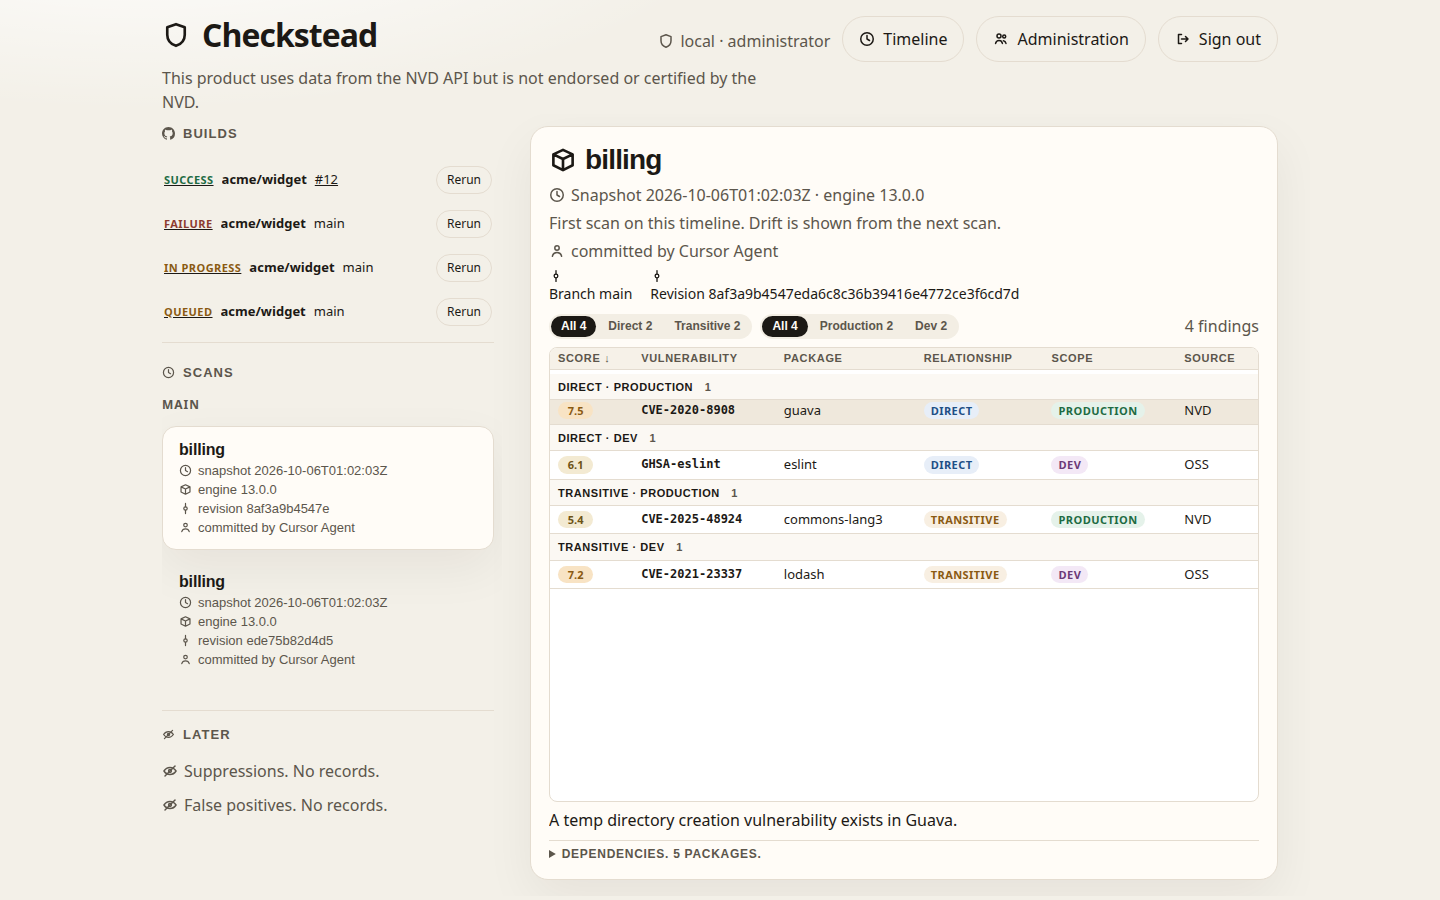
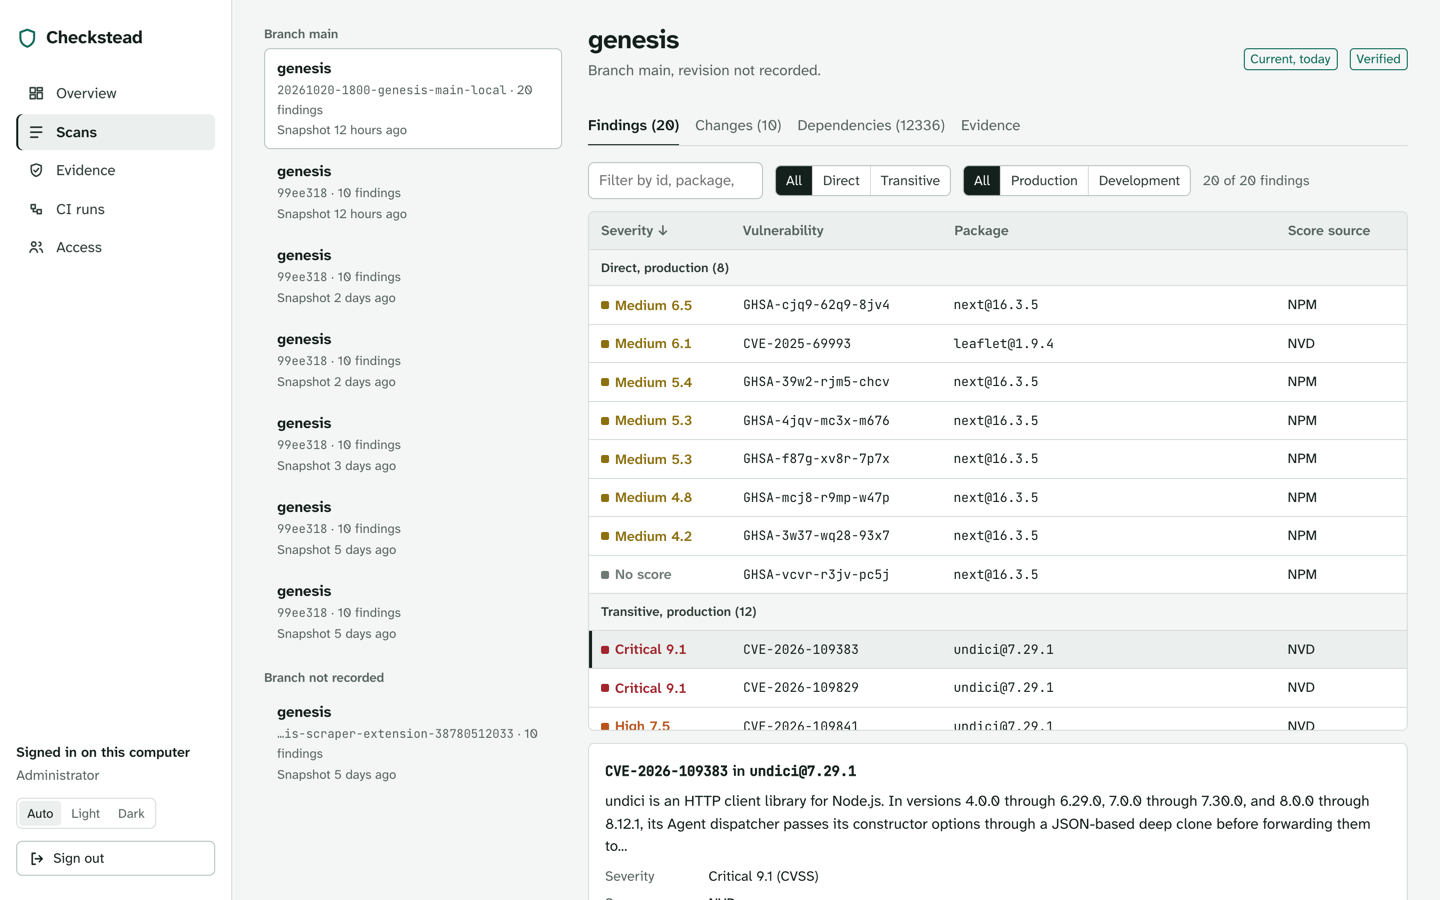
Document the UI design system, page map, and states, with new screenshots.

diff --git a/docs/ui-design.md b/docs/ui-design.md
@@ -1,0 +1,116 @@
+# Web UI design
+
+The timeline server's UI for people who decide whether a dependency change is safe to ship. They are security engineers, release owners, and the developers whose pull request a scan blocked. They need to answer three questions quickly and trust the answer:
+
+1. What needs me right now?
+2. Can I trust this scan? Was the vulnerability data current, signed, and intact?
+3. What changed, and what do I do about it?
+
+## Principles
+
+- **Evidence before verdicts.** Every claim on screen comes from a field in a report. When a report does not record something, the UI says "Not recorded". It never infers a value or treats a missing value as good.
+- **One loud element.** The evidence chain is the signature element. Everything around it stays quiet: one rule weight, one radius, no shadows, no gradients.
+- **Words carry meaning, colour reinforces it.** Severity, freshness, and signature states are always written out ("Critical 9.1", "Aging, 5 days", "Not verified"). Colour is never the only signal.
+- **Teal means verified, and nothing else.** The accent colour is reserved for verified evidence, so it never shows up as decoration.
+- **No sample data.** The app ships no fixtures. An empty server shows an empty state that says how to produce the first scan.
+
+## Design tokens
+
+All tokens are CSS custom properties in [app.css](../src/checkstead/static/app.css). The dark theme redefines the same names.
+
+| Token | Light | Dark | Use |
+| --- | --- | --- | --- |
+| `--paper` | `#f4f6f5` | `#0f1513` | Page background: cool slate-green, not cream |
+| `--surface` | `#ffffff` | `#151d1a` | Tables, panels |
+| `--ink` | `#14201b` | `#e3eae6` | Body text |
+| `--muted` | `#57645e` | `#93a29b` | Secondary text |
+| `--verified` | `#0e6b5a` | `#45b89c` | Verified evidence only |
+| `--warn` | `#8c5a0b` | `#e0a64a` | Aging data, new findings |
+| `--fail` | `#a1252c` | `#f07a7f` | Stale data, unsigned, exploited |
+| `--sev-critical` / `-high` / `-medium` / `-low` / `-none` | `#a1252c` `#a84a16` `#7d630b` `#4c6a5f` `#5d6964` | `#f07a7f` `#f0975f` `#d8b84d` `#8fb3a5` `#8a9892` | CVSS bands |
+
+Contrast was computed with the WCAG 2.x formula. Every text token is at least 4.5:1 against `--paper`, `--surface`, and `--surface-sunk` in both themes. The lowest is a severity colour on `--surface-sunk` in the light theme, at 4.93:1. axe-core's contrast rule needs layout, which jsdom lacks, so the tests turn it off and these ratios are the check.
+
+**Type.** Atkinson Hyperlegible Next for the interface: it was designed for low-vision readers and keeps 0/O and 1/l/I distinct. JetBrains Mono for identifiers only: CVE and GHSA ids, package coordinates, digests, revisions. Both are vendored as Latin `woff2` subsets under the SIL Open Font License, with SHA-256 sums in `static/fonts/SHA256SUMS`. CI fails if they differ from the pinned npm packages. The scale runs 13, 14, 15, 18, 21.6, and 26 px, and line length stays under 80 characters.
+
+**Space.** 4, 8, 12, 16, 24, 32, and 48 px. Radius is 4 or 6 px. The content column is at most 1240 px wide.
+
+**Theme.** Auto follows `prefers-color-scheme`. Light and Dark set `data-theme` on the root element, and the choice is kept in `localStorage`. If storage is blocked, the choice lasts for the page only.
+
+## Information architecture
+
+```
+Sign in (gate)                      shown until a session exists
+└─ Shell: rail navigation + main
+   ├─ Overview            #/                       evidence chain, needs attention, counts, newest scan per project
+   ├─ Scans               #/scans                  opens the newest scan
+   │  └─ Scan             #/scans/<id>[/<tab>]     findings | changes | dependencies | evidence
+   ├─ Evidence            #/evidence               the evidence chain for every newest scan
+   ├─ CI runs             #/builds                 GitHub App workflow runs, rerun
+   └─ Access              #/access                 administrators only: people and roles
+```
+
+Routes are hash routes, so every view and tab has a link that survives a reload, and the server needs no route of its own. The server-rendered GitHub App pages under `/github` are unchanged.
+
+## Journeys
+
+**A release owner checks the morning's state.** They open Overview. The evidence chain says whether the newest scan's data can be trusted. Needs attention lists exploited findings first, then critical findings, then new findings, stale data, and unsigned snapshots. Each item links to the tab that explains it.
+
+**A developer's pull request was blocked.** They follow the link to the scan and open Changes, which shows what the pull request introduced, most severe first. Selecting a finding shows its description, CVSS vectors, whether it is on the CISA KEV list, a link to the advisory, and what to do. For a transitive finding, it says to upgrade the direct dependency that brings it in.
+
+**An auditor verifies a scan.** The Evidence tab shows the snapshot time and freshness, the full zip digest, the signature key, the engine version, and the policy the scan applied. It also gives the two commands that rerun the scan client's own checks.
+
+**An administrator adds a colleague.** Access has a form with the account type, login, and role. Removing a person takes a second press. The server refuses to remove or demote the last administrator, and the UI shows that refusal.
+
+## States
+
+Every load is idle, loading, ready, or error. Views render each state explicitly.
+
+| State | What the person sees |
+| --- | --- |
+| Loading | Skeleton lines in the shape of the content |
+| Empty | What is missing and how to produce it, for example "No scans yet" with the ways scans reach the server |
+| Error | The server's own message and **Try again** |
+| Offline | A banner saying the shown data was loaded earlier and will not update. The request error names the connection |
+| Timeout | After 20 seconds: "The server is taking too long" with **Try again** |
+| Session expired | Any 401 returns to the sign-in gate |
+| Permission denied | 403, or a member opening Access: "Only administrators manage access", with no form |
+| Stale data | Freshness turns Aging after 1 day and Stale after 7, the same rule the scan client uses. Stale scans are listed in Needs attention |
+| Unsigned or unrecorded | Shown in the chain as "Not verified" or "Not recorded" |
+
+## Accessibility
+
+- Landmarks: a skip link, a `nav` rail with `aria-current`, one `main`, and one `h1` per view with no skipped heading levels.
+- On navigation, focus moves to the new page's heading. Arrowing between tabs keeps focus on the tabs.
+- Tables have captions and `scope` attributes. Sortable headers are buttons with `aria-sort`. Selectable rows are focusable and respond to Enter and Space.
+- Tabs follow the ARIA tabs pattern with arrow keys. Filters are labelled segmented buttons with `aria-pressed`.
+- Focus rings are visible in both themes, and `prefers-reduced-motion` turns off transitions.
+- axe-core runs against every view in the tests and must report no violations.
+
+## Security
+
+- Content-Security-Policy on the app is `default-src 'none'; script-src 'self'; style-src 'self'`, with no `'unsafe-inline'`. The legacy `/github` pages keep their own policy.
+- The DOM is built with a small `h()` helper that sets text and attributes only. A test fails if any module assigns `innerHTML` or `outerHTML`, or calls `insertAdjacentHTML` or `document.write`.
+- External links are checked to be `http` or `https` and open with `rel="noopener noreferrer"`.
+- Static files are an allowlist read at startup. Any other path, including traversal attempts, is a 404. Files are served with a strong ETag and `Cache-Control: no-cache`, so an upgrade never leaves an old script running against a new API.
+- No third-party requests: fonts and icons are local.
+
+## Code
+
+| Path | What |
+| --- | --- |
+| `src/checkstead/static/js/api.js` | Typed API contract (JSDoc), `request()` with a timeout and typed `ApiError` |
+| `src/checkstead/static/js/model.js` | Everything derived from reports: latest scans, counts, evidence chain, attention |
+| `src/checkstead/static/js/format.js` | Freshness, severity bands, time and digest formatting |
+| `src/checkstead/static/js/components.js` | Severity mark, evidence chain, tables, tabs, states |
+| `src/checkstead/static/js/app.js` | State, loading, the shell, routing, focus, theme |
+| `src/checkstead/static/js/views/` | One module per page |
+| `web/` | Development tooling only: TypeScript, jsdom, axe-core, and the font packages, all at exact versions |
+
+## Known gaps
+
+- Contrast is computed from tokens, not measured in a browser with axe. A browser-based axe run (Playwright) would cover it, but it is not set up.
+- The Overview loads every scan's summary at once. That is fine for hundreds of scans. Thousands would need server-side paging.
+- Dependency tables are capped at 500 rows per group, with the total shown. There is no paging or export yet.
+- There is no in-app way to suppress a finding. The "What to do" text points to the suppression file.
+- The `/github` setup pages are still server-rendered and use the older styles.

diff --git a/README.md b/README.md
@@ -129,23 +129,35 @@ With no `checkstead.yml` in that directory, the policy is `prefer-newest`, with 
 
 ## Screenshots
 
-On localhost, the first person uses **Sign in on this computer**. That button is enabled. GitHub and Microsoft stay inactive until their variables are set. An OAuth app only signs a person in. Local sign-in needs no OAuth app. The GitHub App from `/github` reads and scans repositories. A personal GitHub account is supported. GitLab is not connected.
+These screenshots come from a local server reading real scan reports. The newest scan used the signed daily snapshot. The UI's design system, page map, and the states each page handles are in [docs/ui-design.md](docs/ui-design.md).
 
-The timeline lists Checkstead workflow runs beside the scans when the GitHub App is installed. A run is queued, in progress, success, or failure. A run on a pull request is labeled with that pull request number and links to the pull request. Rerun is on each run and uses the credentials already stored.
+The Overview opens with the evidence chain for the newest scan: how fresh the vulnerability data is, whether its signature verified, whether the checksum matched, and which engine ran. Below that, Needs attention lists what to act on: actively exploited findings first, then critical findings, new findings, stale data, and unsigned snapshots. Every count comes from a report. A value a report does not record is shown as "Not recorded", never guessed.
 
-![Sign-in page. Sign in on this computer is enabled. GitHub and Microsoft are inactive.](docs/screenshots/sign-in.png)
+![Overview. The evidence chain shows current data, a verified signature, a matched checksum, and Dependency-Check 13.0.0. Needs attention lists two critical findings and ten new findings.](docs/screenshots/overview.png)
 
-The first scan on a branch is the scan view. This one records branch `main`. Findings are one table, split into Direct · Production, Direct · Dev, Transitive · Production, and Transitive · Dev. A path inside `node_modules` is shown as the package name, not as the file. The columns are Score, Vulnerability, Package, Relationship, Scope, and Source. The header sticks while the rows scroll inside the table. Score starts highest first inside each group, and clicking a column sorts by that column. The selected row is highlighted. Its description is one line under the table. The filters and the count stay on one line above the table. Dependencies stay closed until opened.
+A scan has four tabs. Findings groups vulnerabilities into direct and transitive, production and development. Each group is sorted highest score first, and selecting a row explains the finding and what to do about it. Changes lists what the scan introduced or fixed since the previous scan on the branch. Dependencies lists every component. Evidence shows the snapshot, signature, policy, and the commands to check it yourself.
 
-![Scan of billing on branch main. Findings are grouped into direct production and the other dependency types, with the description on one line under the table.](docs/screenshots/scan.png)
+![Findings for a scan on branch main, grouped by relationship and scope, with the selected finding's detail below the table.](docs/screenshots/scan.png)
 
-The next scan on that branch is the drift. The branch is `main`. Guava moved from 31.1-jre to 32.1.3-jre, commons-text moved from 1.9 to 1.10.0, and gson arrived. The drift line says no findings were added or removed between the two scans. That detail stays closed until opened. The same table is on the screen.
+![Changes since the previous scan: ten findings introduced, sorted by severity, then the dependency changes.](docs/screenshots/changes.png)
 
-![Drift on branch main. The grouped finding table stays on one screen, with drift closed.](docs/screenshots/drift.png)
+![The Evidence tab: snapshot time and freshness, zip digest, signature key, engine, and the policy the scan applied.](docs/screenshots/evidence.png)
 
-The first person to sign in is the administrator. Administration is where that person adds later accounts.
+On localhost, the first person signs in with **Sign in on this computer**. GitHub and Microsoft sign-in appear only once their variables are set. Signing in only identifies a person. Scanning repositories uses the separate GitHub App from `/github`.
 
-![Administration, with GitHub and Microsoft Entra accounts](docs/screenshots/administration.png)
+![Sign-in page with only Sign in on this computer offered.](docs/screenshots/sign-in.png)
+
+CI runs lists Checkstead workflow runs once the GitHub App is installed. Until then, the page says GitHub is not connected and links to the setup. Access is for administrators only. They add people and change roles there, and removing someone takes a second press to confirm.
+
+![CI runs before the GitHub App is installed.](docs/screenshots/ci-runs.png)
+
+![Access, with the add form and the signed-in administrator marked You.](docs/screenshots/access.png)
+
+The theme follows the system setting, and you can switch it with Auto, Light, or Dark. Below 900 pixels, the navigation moves to the top and tables drop secondary columns.
+
+![Overview in the dark theme.](docs/screenshots/overview-dark.png)
+
+<img src="docs/screenshots/overview-mobile.png" alt="Overview on a 375 pixel wide phone screen." width="375">
 
 ## Architecture
 
@@ -503,7 +515,7 @@ The two reports already in `ui/scans` are a pair of fixture scans on the same sn
 
 A scan records a revision when you pass `--revision`, and the GitHub Action passes `GITHUB_SHA`. When that revision is a commit git can see, the report also names the author. The sample reports use the commits of the fixture trees. Both were committed by Cursor Agent.
 
-A scan records the git branch of the tree it scanned, the branch you pass with `--branch`, or `GITHUB_REF_NAME` from the Action. The timeline reads `branch:` from `checkstead.txt` and groups scans into one section per branch. Drift is the change from the previous scan on that same branch. Findings are one table, split into direct and transitive, and into production and dev. A `node_modules` path is shown as the package name. The header sticks while the rows scroll inside the table. Score starts highest first inside each group, and clicking a column sorts by that column. The selected row is highlighted, and its description is one line under the table. The page does not grow with the finding count. Filters and the count stay on one line above the table. Dependency and drift details stay closed until opened.
+A scan records the git branch of the tree it scanned, the branch you pass with `--branch`, or `GITHUB_REF_NAME` from the Action. The scan list reads `branch:` from `checkstead.txt` and groups scans by branch. Changes are measured from the previous scan on that same branch. The page loads a summary of every scan first. A scan's full dependency list loads only when you open its Changes or Dependencies tab. Long dependency tables show their first 500 rows and say how many there are in total.
 
 When the GitHub App is installed, the timeline also lists recent Checkstead workflow runs for those repositories. A run is queued, in progress, success, or failure. A run on a pull request is labeled with that pull request number and links to the pull request. Rerun starts that same workflow again through the GitHub API, using the app credentials already stored. There is no token field.
 
@@ -589,6 +601,16 @@ bash scripts/self-test.sh
 ```
 
 That is the same lint, package build, unit tests, and Maven plugin tests that CI runs before it publishes images. The tests publish no database. They serve a tiny zip, run two scans on the same UTC day, and record every URL the scan client requests. Both reports name the same snapshot. None of the requests are to `services.nvd.nist.gov`. A manifest built by engine 12.1.8 is refused before the zip is downloaded. `checkstead doctor` prints the pin and whether secrets are set, and it does not print the secret values.
+
+The web UI is plain ES modules in `src/checkstead/static`, with no build step. Node is used only to check it. The CI job named Web UI runs the same commands:
+
+```bash
+cd web
+npm ci --ignore-scripts
+npm run check
+```
+
+That type-checks the modules with TypeScript in `checkJs` mode and runs the component, flow, and axe accessibility tests in jsdom. Node 22.22.2 or later is required.
 
 What the tests cover, and what still needs Docker, is in [Verification](docs/testing/verification-matrix.md). The trust boundaries are in [Threat model](docs/security/threat-model.md).
 

diff --git a/CHANGELOG.md b/CHANGELOG.md
@@ -6,6 +6,26 @@ listed as product versions.
 
 ## Unreleased
 
+Web UI:
+
+- The timeline is redesigned around evidence. Overview opens with the newest
+  scan's evidence chain (data freshness, signature, checksum, engine) and a
+  Needs attention list, with exploited and critical findings first. Each scan
+  has Findings, Changes, Dependencies, and Evidence tabs. See
+  [docs/ui-design.md](docs/ui-design.md).
+- Reports record `snapshot-authenticity` and `snapshot-key`; the history API
+  returns them with each scan's policy and each finding's KEV flag.
+- New `GET /api/history/summary` (scans without dependency lists) and
+  `GET /api/scans/<id>`. The page no longer downloads every dependency of
+  every scan on load.
+- The page's Content-Security-Policy no longer allows inline script or style.
+  Scripts, styles, and the vendored OFL fonts are served from a fixed
+  allowlist under `/static/`, with ETags.
+- A request body the handler did not read no longer corrupts the next request
+  on a keep-alive connection.
+- Light and dark themes, keyboard navigation, and axe-checked views. The NVD
+  attribution is shown wherever NVD data is.
+
 Security:
 
 - The timeline server refuses a `Host` it was not configured for (421), which
